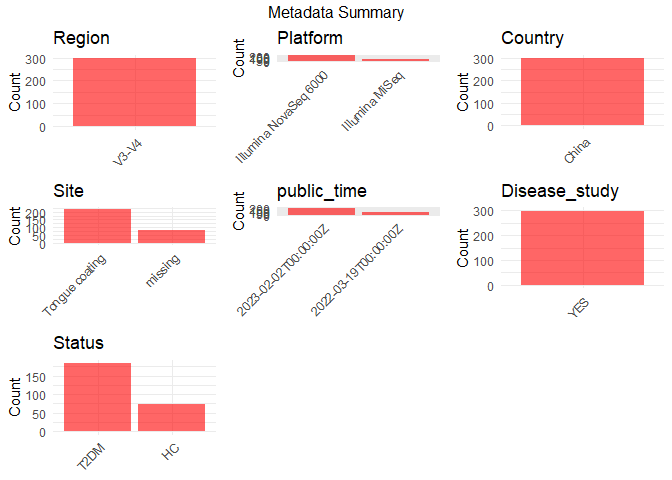
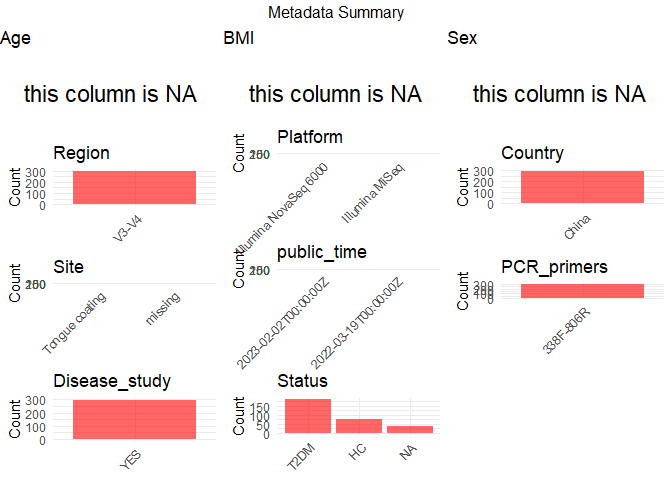
updata markdown file

diff --git a/data/projects/PRJNA782768/metadata_collection.md b/data/projects/PRJNA782768/metadata_collection.md
@@ -141,9 +141,8 @@ uniform_meta <- data.frame(
 
 # Step 3: Manually Add Information from the Publication
 
-Some information (e.g., Sex, PCR primers, study title, disease status)
-must be manually extracted from the publication and added to the
-metadata.
+Some information (e.g. PCR primers, study title, disease status) must be
+manually extracted from the publication and added to the metadata.
 
 ``` r
 # Add information obtained from the publication
@@ -179,22 +178,29 @@ print(paste("Number of unique sample names:", length(unique(uniform_meta$sample_
 ``` r
 # Select columns for visualization
 plot_data <- uniform_meta %>%
-  select(-BioProject, -Run, -sample_name, -title, -PCR_primers, -Age, -BMI, -Sex)
+  select(-BioProject, -Run, -sample_name, -title)
 
 # Function to create simple plots for each column
 create_simple_plots <- function(data) {
   plots <- list()
   
   for (col in colnames(data)) {
-    if (is.numeric(data[[col]])) {
+    # Check if the column is all NA
+    if (all(is.na(data[[col]]))) {
+      # Create an empty plot with text indicating all NA
+      p <- ggplot() +
+        annotate("text", x = 0.5, y = 0.5, label = "this column is NA", size = 6) +
+        labs(title = col) +
+        theme_void()
+    } else if (is.numeric(data[[col]])) {
       # Numeric variable: histogram
       p <- ggplot(data, aes(x = .data[[col]])) +
-        geom_histogram(fill = "blue", alpha = 0.6, bins = 20) +
+        geom_histogram(fill = "blue", alpha = 0.6, bins = 20, na.rm = TRUE) +
         labs(title = col) +
         theme_minimal()
     } else {
-      # Categorical variable: bar plot
-      count_data <- as.data.frame(table(data[[col]]))
+      # Categorical variable: bar plot (remove NA values)
+      count_data <- as.data.frame(table(data[[col]], useNA = "ifany"))
       p <- ggplot(count_data, aes(x = reorder(Var1, -Freq), y = Freq)) +
         geom_col(fill = "red", alpha = 0.6) +
         labs(title = col, x = NULL, y = "Count") +
@@ -231,8 +237,8 @@ write.csv(uniform_meta, file = "uniform_meta.csv", quote = FALSE)
 
 1.  **Metadata Accuracy**: Always cross-check the metadata with the
     original publication to ensure accuracy.
-2.  **Manual Entries**: Columns like `Age`, `BMI`, `Sex`, `PCR_primers`,
-    and `Status` often require manual entry based on the publication.
+2.  **Manual Entries**: Columns like `PCR_primers`, and `Status` often
+    require manual entry based on the publication.
 3.  **Disease Status**: Be careful when assigning `Status`—some studies
     include both disease and healthy samples.
 4.  **Visualization**: The plots help quickly identify the distribution
